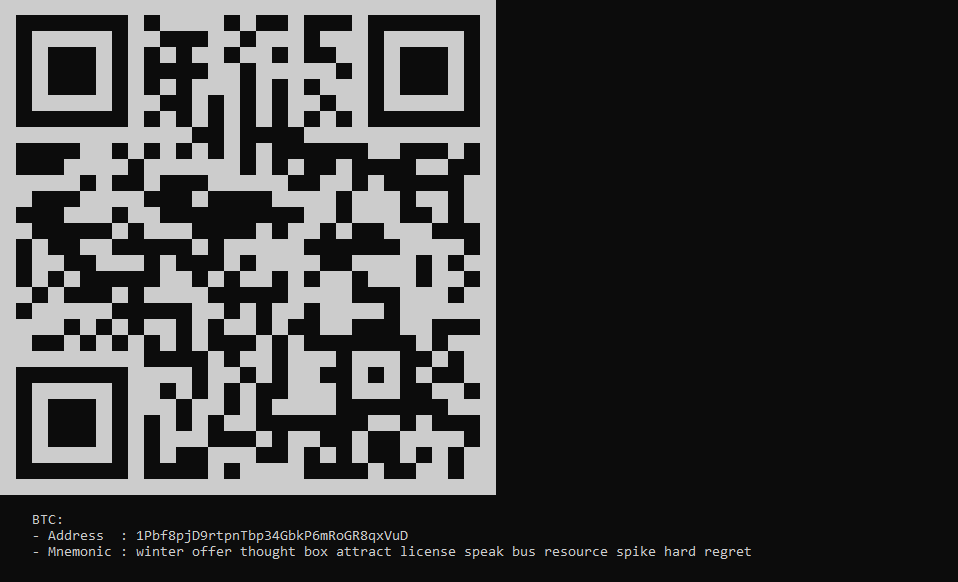
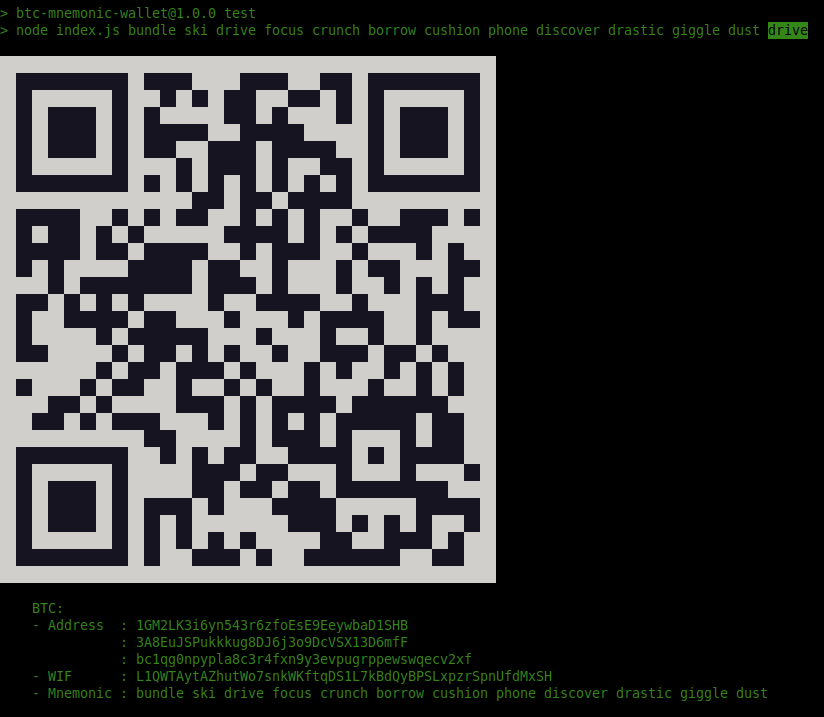
20-06-2024

diff --git a/index.js b/index.js
@@ -1,8 +1,3 @@
-// References:
-// - https://learnmeabitcoin.com/technical/keys/hd-wallets/derivation-paths/
-// - https://github.com/bitcoinjs/bitcoinjs-lib/blob/master/test/integration/addresses.spec.ts
-// - https://www.npmjs.com/package/bip39
-
 const bip32 = require('bip32')
 const bip39 = require('bip39')
 const bitcoin = require('bitcoinjs-lib')
@@ -33,7 +28,7 @@ const wallet3 = bitcoin.payments.p2wpkh({
   pubkey: root.derivePath(`m/84'/0'/0'/0/0`).publicKey
 })
 
-const secret = root.derivePath(`m/84'/0'/0'/0/0`).toWIF() // TODO: 1-of-3
+const secret = root.derivePath(`m/84'/0'/0'/0/0`).toWIF() // Bech32 (SegWit native)
 
 qrcode.generate(secret, {small: false}, function (qrcode) {
     console.log(qrcode)
@@ -46,3 +41,4 @@ qrcode.generate(secret, {small: false}, function (qrcode) {
     - Mnemonic : ${mnemonic}
     `)
 })
+

diff --git a/README.md b/README.md
@@ -1,10 +1,15 @@
-JavaScript bitcoin mnemonic root wallet generator with QR-coded private key.
+JavaScript bitcoin mnemonic wallet generator with QR-coded private key of Bech32 (SegWit native).
 ===
 
 Run:
 
     npm install
     npm test
+
+Examples:
+
+    npm test [mnemonic..12]
+    npm test [mnemonic..12] [passphrase]
 
 Screenshot
 ---
@@ -16,9 +21,16 @@ Links
 
 - [What Is A Bitcoin Derivation Path?](https://thebitcoinmanual.com/articles/btc-derivation-path/)
 - [How to generate a new Bitcoin address in JavaScript](https://www.quicknode.com/guides/web3-sdks/how-to-generate-a-new-bitcoin-address-in-javascript)
-  
+- [BitcoinJS (tests and examples)](https://github.com/bitcoinjs/bitcoinjs-lib/blob/master/test/integration/addresses.spec.ts)
+
 Changelog
 ---
+
+**20-06-2024**
+
+- HD Wallet (P2PKH, P2SH, Bech32)
+- Passphrase ("13-th word")
+- [Screenshot](wallet.png) of test wallet with "drive" passphrase
 
 **30-04-2023**
 
@@ -30,6 +42,11 @@ Changelog
 - Init (ref: [javascript.plainenglish.io](https://javascript.plainenglish.io/generate-your-own-bitcoin-wallet-within-5-minutes-3c36176b47ee))
 - Fix BIP32 version (ref: [gist.github.com](https://gist.github.com/PraneshASP/df3f3f0af02fea728ad49bfa0cae7aff?permalink_comment_id=4080906#gistcomment-4080906))
 - QR-code terminal implementation
+
+Thanks
+---
+
+- [BIP39](https://www.npmjs.com/package/bip39)
 
 Contributing
 ---
